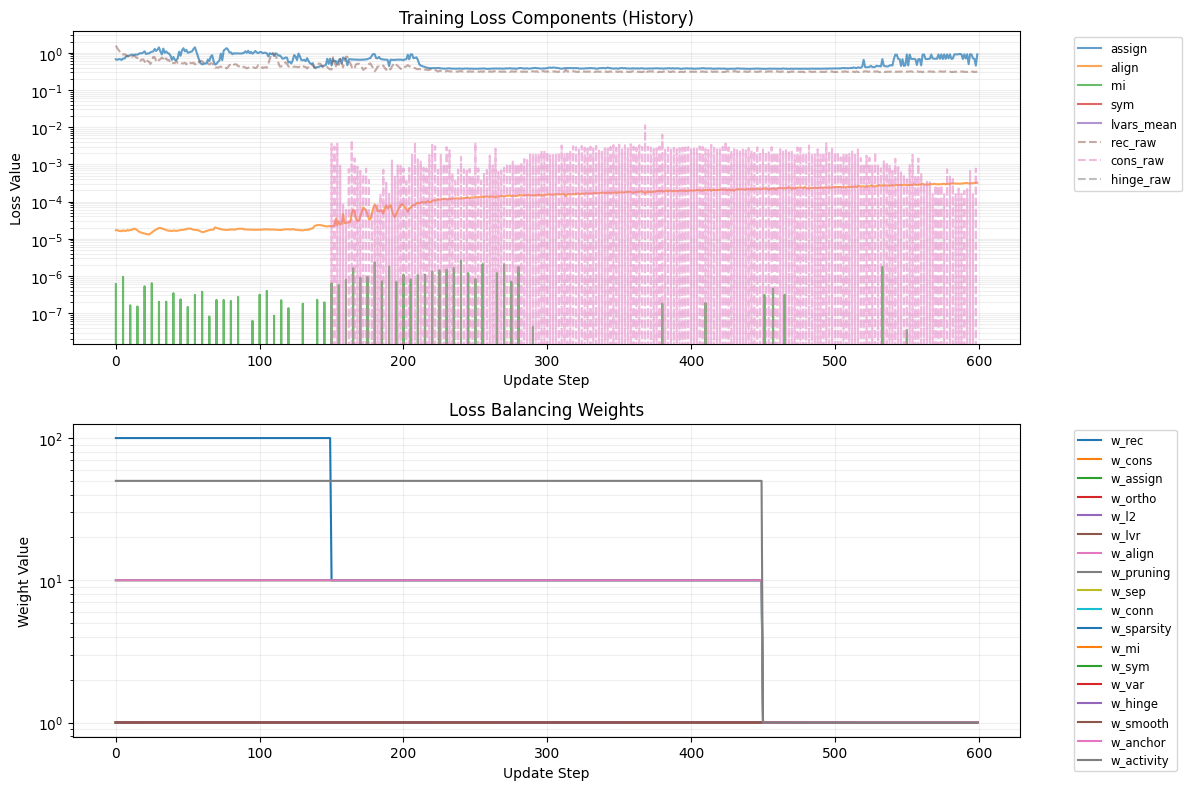
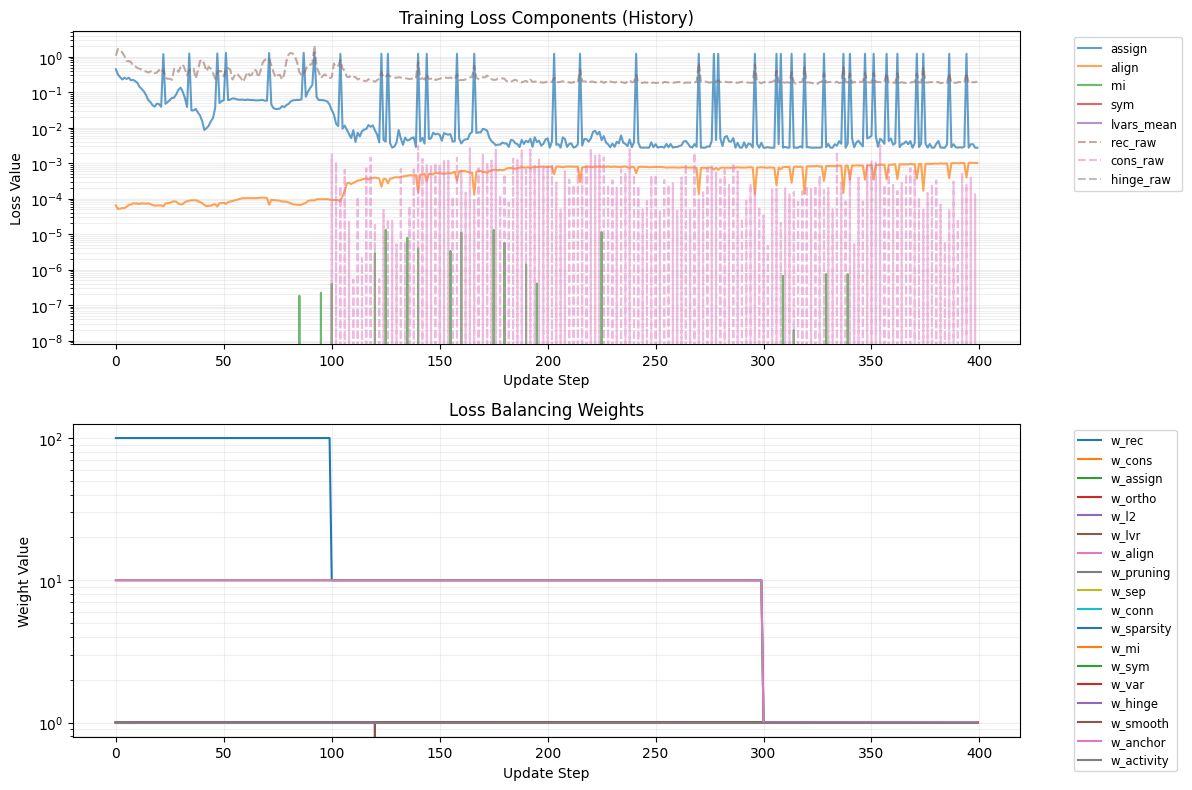
updated

diff --git a/engine.py b/engine.py
@@ -884,6 +884,10 @@ class Trainer:
         loss_align /= (norm_factor * self.model.encoder.n_super_nodes)
         loss_mi /= (norm_factor * self.model.encoder.n_super_nodes)
 
+        # Clamp log_vars for l2 and lvr to a minimum of 0.0 (weight <= 1.0) to prevent crushing dynamics
+        with torch.no_grad():
+            self.model.log_vars[4:6].clamp_(min=0.0)
+            
         lvars = torch.clamp(self.model.log_vars, min=-6.0, max=5.0)
         
         raw_losses = {
@@ -894,18 +898,21 @@ class Trainer:
             'anchor': loss_anchor
         }
 
-        # Activity penalty
+        # Activity penalty: Force the model to utilize latent space
         if len(z_vel) > 0:
             loss_activity = torch.relu(1.0 - torch.norm(z_vel, dim=-1)).mean()
-            raw_losses['activity'] = loss_activity * 50.0
+            raw_losses['activity'] = loss_activity * 1000.0
         else:
             loss_activity = self.model.get_activity_penalty(z_preds)
-            raw_losses['activity'] = loss_activity * 50.0
+            raw_losses['activity'] = loss_activity * 1000.0
 
         for k in raw_losses:
             raw_losses[k] = raw_losses[k].to(torch.float32)
 
         base_keys = list(raw_losses.keys())[:17]
+        
+        # Regularization Freeze: 30% of total epochs
+        is_reg_freeze = epoch < (max_epochs * 0.3)
         
         # Use fixed weights for the first 75% of training to ensure stability
         if epoch < int(max_epochs * 0.75):
@@ -913,10 +920,16 @@ class Trainer:
             weights['rec'] = 100.0 if is_stage1 else 10.0
             weights['assign'] = 10.0
             weights['anchor'] = 10.0
-            if 'activity' in raw_losses: weights['activity'] = 50.0
+            if 'activity' in raw_losses: weights['activity'] = 1.0 # Multiplied by 1000.0 in raw_losses
         else:
             weights = {k: torch.exp(-lvars[i]) * loss_multipliers[i] for i, k in enumerate(base_keys)}
             if 'activity' in raw_losses: weights['activity'] = 1.0
+
+        # Apply Regularization Freeze
+        if is_reg_freeze:
+            weights['l2'] = 0.0
+            weights['lvr'] = 0.0
+            weights['smooth'] = 0.0
 
         if self.enhanced_balancer and not is_stage1 and epoch >= int(max_epochs * 0.75):
             balanced = self.enhanced_balancer.get_balanced_losses(raw_losses, self.model.parameters())
@@ -934,7 +947,7 @@ class Trainer:
         use_log_vars = (epoch >= int(max_epochs * 0.75))
         
         for i, k in enumerate(raw_losses.keys()):
-            if k not in ['cons', 'l2', 'lvr', 'activity']:
+            if k not in ['cons', 'l2', 'lvr']: # Activity is now included in discovery_loss
                 term = weights[k] * torch.clamp(raw_losses[k], 0, 100)
                 if use_log_vars and i < len(lvars):
                     term = term + lvars[i]
@@ -945,14 +958,20 @@ class Trainer:
 
         # Main loss terms with their own log_vars
         loss = discovery_loss 
-        loss += (weights['l2'] * 1e-6 * torch.clamp(loss_l2, 0, 100) + (lvars[4] if use_log_vars else 0.0))
-        loss += (weights['lvr'] * 0.1 * torch.clamp(loss_lvr, 0, 100) + (lvars[5] if use_log_vars else 0.0))
+        
+        # Regularization Freeze: Ensure weights are 0.0 during freeze phase
+        l2_weight = weights['l2'] * 1e-6
+        lvr_weight = weights['lvr'] * 0.1
+        smooth_weight = weights['smooth'] * 100.0
+        
+        loss += (l2_weight * torch.clamp(loss_l2, 0, 100) + (lvars[4] if use_log_vars else 0.0))
+        loss += (lvr_weight * torch.clamp(loss_lvr, 0, 100) + (lvars[5] if use_log_vars else 0.0))
         
         if compute_consistency: 
             loss += (weights['cons'] * self.consistency_weight * torch.clamp(loss_cons.to(torch.float32), 0, 100) * stage2_factor + (lvars[1] if use_log_vars else 0.0))
 
         smooth_idx = 15
-        loss += (weights['smooth'] * 100.0 * torch.clamp(loss_smooth, 0, 100) + (lvars[smooth_idx] if use_log_vars else 0.0))
+        loss += (smooth_weight * torch.clamp(loss_smooth, 0, 100) + (lvars[smooth_idx] if use_log_vars else 0.0))
         
         # Ensure loss stays positive and doesn't explode
         loss = torch.clamp(loss + 0.1 * torch.sum(lvars**2), 1e-4, 1e5)

diff --git a/model.py b/model.py
@@ -250,9 +250,9 @@ class GNNEncoder(nn.Module):
         # Add a learnable gain parameter to prevent vanishing latents - REDUCED FROM 5.0 TO 1.0
         self.latent_gain = nn.Parameter(torch.ones(latent_dim) * 1.0)
 
-        # Initialize output layer with higher variance to promote activity
-        nn.init.normal_(self.output_layer[-1].weight, mean=0.0, std=2.0)
-        nn.init.normal_(self.output_layer[-1].bias, mean=0.0, std=2.0)
+        # Initialize output layer to spread out initial latent states
+        nn.init.normal_(self.output_layer[-1].weight, mean=0.0, std=1.0)
+        nn.init.zeros_(self.output_layer[-1].bias)
 
     def _initialize_weights(self):
         """Initialize weights using Xavier uniform initialization."""
@@ -376,11 +376,11 @@ class HamiltonianODEFunc(nn.Module):
             self.gamma = nn.Parameter(torch.full((n_super_nodes, 1), -5.0)) # log space
 
     def _initialize_weights_small(self):
-        """Initialize weights with smaller standard deviation to prevent initial spikes."""
+        """Initialize weights using orthogonal initialization for hidden layers to prevent vanishing gradients."""
         for m in self.H_net.modules():
             if isinstance(m, nn.Linear):
-                # Initialize with larger std (0.2) to kickstart dynamics (changed from 0.01)
-                nn.init.normal_(m.weight, mean=0.0, std=0.2)
+                # Use orthogonal initialization to maintain gradient flow
+                nn.init.orthogonal_(m.weight)
                 if m.bias is not None:
                     nn.init.zeros_(m.bias)
 
@@ -607,7 +607,7 @@ class DiscoveryEngineModel(nn.Module):
         temporal_std = torch.std(z, dim=0)  # [B, K, D]
         # Encourage non-zero standard deviation to prevent static latents
         # Use a stricter threshold to prevent the model from finding static solutions
-        activity_penalty = torch.mean(torch.relu(0.5 - temporal_std))  # Increased threshold from 0.1 to 0.5
+        activity_penalty = torch.mean(torch.relu(1.0 - temporal_std))  # Increased threshold from 0.5 to 1.0
         return activity_penalty
 
     def get_mi_loss(self, z, mu):

diff --git a/stable_pooling.py b/stable_pooling.py
@@ -157,6 +157,17 @@ class StableHierarchicalPooling(nn.Module):
 
         avg_s = s.mean(dim=0)
 
+        # COMPETITIVE DROPOUT: Randomly zero out most active super-node during training to force distribution
+        if self.training and torch.rand(1).item() < 0.1:
+            most_active_idx = torch.argmax(avg_s)
+            # Create a mask to zero out the most active super-node
+            dropout_mask = torch.ones_like(s)
+            dropout_mask[:, most_active_idx] = 0.0
+            s = s * dropout_mask
+            # Re-normalize to ensure probabilities sum to 1
+            s = s / (s.sum(dim=-1, keepdim=True) + 1e-9)
+            avg_s = s.mean(dim=0)
+
         # Update assignment history for future revival decisions
         self.assignment_history.copy_(0.9 * self.assignment_history + 0.1 * avg_s.detach())
         self.history_counter += 1
@@ -289,10 +300,14 @@ class StableHierarchicalPooling(nn.Module):
 
     def _compute_balance_loss(self, avg_assignments):
         """
-        Compute loss to encourage balanced usage of super-nodes using KL divergence.
+        Compute loss to encourage balanced usage of super-nodes using KL divergence
+        and a Max-Min penalty to prevent single super-node dominance.
         """
         from common_losses import compute_balance_loss as common_balance_loss
-        return common_balance_loss(avg_assignments, self.n_super_nodes)
+        loss = common_balance_loss(avg_assignments, self.n_super_nodes)
+        # Harsher Diversity: penalize difference between most and least used super-nodes
+        loss += (avg_assignments.max() - avg_assignments.min())
+        return loss
 
     def apply_hard_revival(self):
         """

diff --git a/unified_train.py b/unified_train.py
@@ -32,7 +32,7 @@ def main():
     parser.add_argument('--memory_efficient', action='store_true', help='Use memory-efficient mode')
     parser.add_argument('--latent_dim', type=int, default=8, help='Dimension of latent space')
     parser.add_argument('--hidden_dim', type=int, default=128, help='Hidden dimension of the model')
-    parser.add_argument('--consistency_weight', type=float, default=0.1, help='Weight for consistency loss')
+    parser.add_argument('--consistency_weight', type=float, default=0.001, help='Weight for consistency loss')
     parser.add_argument('--spatial_weight', type=float, default=0.1, help='Very low weight for spatial loss')
     parser.add_argument('--sym_weight', type=float, default=1.0, help='Weight for symbolic loss')
     parser.add_argument('--min_active', type=int, default=4, help='Minimum active super-nodes')
